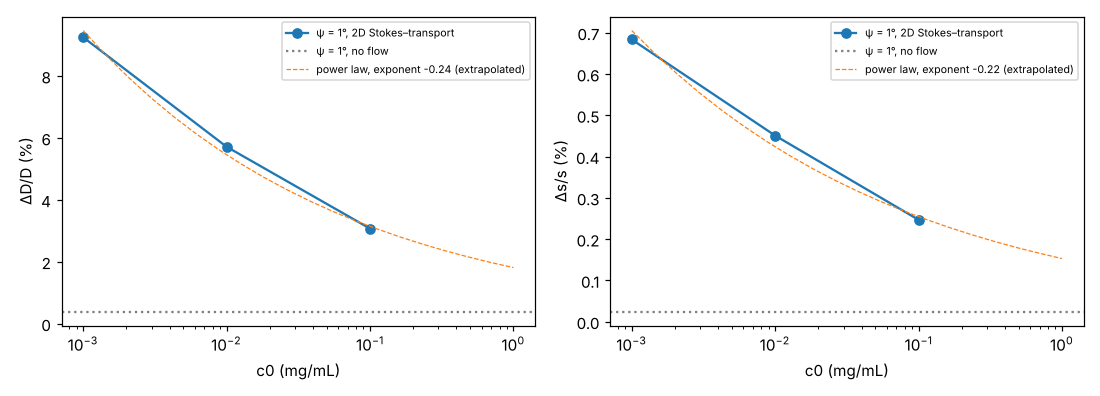
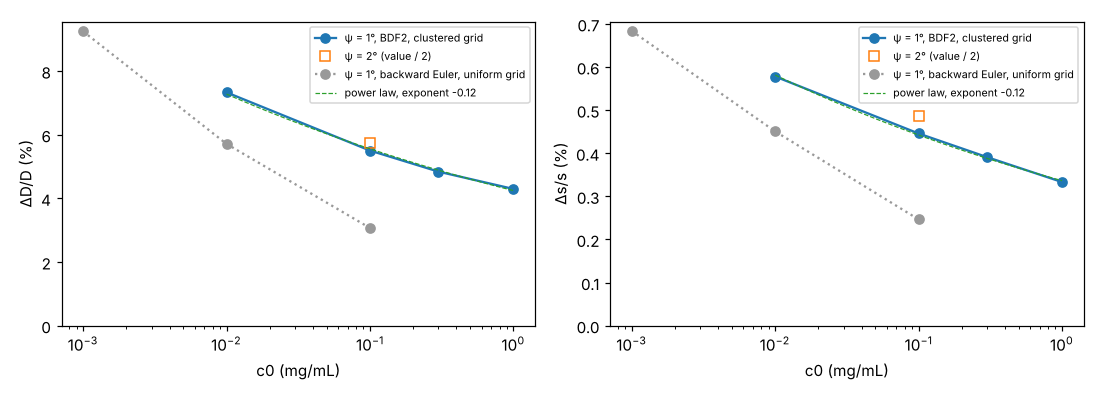
2D misalignment: converged c0 series up to 1 mg/mL
BDF2 + wall-clustered grid: dD/D = 7.3/5.5/4.8/4.3 % at c0 = 0.01/0.1/0.3/1
mg/mL (psi = 1 deg), ds/s = dD/D / 12.5, linear in psi, c0^-0.12 scaling.
Old first-order solver underestimated the effect by about 2x at 1 mg/mL.
README sections 5/6 and summary figure updated.

Claude-Session: https://claude.ai/code/session_013K97U3U5VJQ5UUjhK9BA67

diff --git a/scripts/misalignment/plot2d_summary.py b/scripts/misalignment/plot2d_summary.py
@@ -1,6 +1,8 @@
 #!/usr/bin/env python3
 """Summary figure of the 2D study: apparent Delta D / D and Delta s / s
-(ideal-model fit, relative to the aligned run on the same grid) versus c0."""
+(ideal-model fit, relative to the aligned run on the same grid) versus c0.
+Main series: BDF2 solver, wall-clustered 120x40 grid (misalign2d_bdf2.py);
+grey: first-order backward-Euler solver on a uniform grid (misalign2d_implicit.py)."""
 import json
 import numpy as np
 import matplotlib
@@ -8,24 +10,33 @@ matplotlib.use("Agg")
 import matplotlib.pyplot as plt
 
 R = {r["file"]: r for r in json.load(open("results2d.json"))}
-ref = R["runs/p0_c1e-2_120.npz"]
-pts = [("runs/p1_c1e-3_120.npz", 1e-3), ("runs/p1_c1e-2_120.npz", 1e-2),
+
+
+def rel(files, ref, key):
+    return np.array([100 * (R[f][key] / R[ref][key] - 1) for f in files])
+
+
+bdf = [("runs/b_p1_c1e-2_120_y3.npz", 1e-2), ("runs/b_p1_c0.1_y3.npz", 1e-1),
+       ("runs/b_p1_c0.3_y3.npz", 0.3), ("runs/b_p1_c1.0_y3.npz", 1.0)]
+old = [("runs/p1_c1e-3_120.npz", 1e-3), ("runs/p1_c1e-2_120.npz", 1e-2),
        ("runs/p1_c1e-1_120.npz", 1e-1)]
-c = np.array([p[1] for p in pts])
-dD = np.array([100 * (R[f]["D_k0"] / ref["D_k0"] - 1) for f, _ in pts])
-ds = np.array([100 * (R[f]["s_k0"] / ref["s_k0"] - 1) for f, _ in pts])
-nf = R["runs/p1_noflow_120.npz"]
+c = np.array([p[1] for p in bdf]); co = np.array([p[1] for p in old])
+fb = [p[0] for p in bdf]; fo = [p[0] for p in old]
+p2 = "runs/b_p2_c0.1_y3.npz"
+
 fig, ax = plt.subplots(1, 2, figsize=(10, 3.6))
-for a, y, lab, y0 in [(ax[0], dD, "ΔD/D (%)", 100 * (nf["D_k0"] / ref["D_k0"] - 1)),
-                      (ax[1], ds, "Δs/s (%)", 100 * (nf["s_k0"] / ref["s_k0"] - 1))]:
-    a.semilogx(c, y, "o-", label="ψ = 1°, 2D Stokes–transport")
-    a.axhline(y0, ls=":", color="gray", label="ψ = 1°, no flow")
+for a, key, lab in [(ax[0], "D_k0", "ΔD/D (%)"), (ax[1], "s_k0", "Δs/s (%)")]:
+    y = rel(fb, "runs/b_p0_120.npz", key)
+    a.semilogx(c, y, "o-", label="ψ = 1°, BDF2, clustered grid")
+    a.semilogx([0.1], rel([p2], "runs/b_p0_120.npz", key) / 2, "s", ms=7, mfc="none",
+               label="ψ = 2° (value / 2)")
+    a.semilogx(co, rel(fo, "runs/p0_c1e-2_120.npz", key), "o:", color="0.6",
+               label="ψ = 1°, backward Euler, uniform grid")
     k = np.polyfit(np.log10(c), np.log10(y), 1)
-    cc = np.logspace(-3, 0, 20)
+    cc = np.logspace(-2, 0, 20)
     a.semilogx(cc, 10 ** np.polyval(k, np.log10(cc)), "--", lw=0.8,
-               label=f"power law, exponent {k[0]:.2f} (extrapolated)")
+               label=f"power law, exponent {k[0]:.2f}")
+    a.set_ylim(bottom=0)
     a.set_xlabel("c0 (mg/mL)"); a.set_ylabel(lab); a.legend(fontsize=7)
+    print(key, "exponent", round(k[0], 3), "values", np.round(y, 3))
 plt.tight_layout(); plt.savefig("fig2d_summary.png", dpi=110)
-print("exponents:", np.polyfit(np.log10(c), np.log10(dD), 1)[0], np.polyfit(np.log10(c), np.log10(ds), 1)[0])
-print("extrapolated to 1 mg/mL: dD=%.2f%% ds=%.3f%%" % (10**np.polyval(np.polyfit(np.log10(c), np.log10(dD), 1), 0),
-                                                       10**np.polyval(np.polyfit(np.log10(c), np.log10(ds), 1), 0)))

diff --git a/scripts/misalignment/README.md b/scripts/misalignment/README.md
@@ -128,86 +128,122 @@ The full table for δ up to 4° and κ ∈ {1, 0.1} is produced by `study.py`.
 
 ## 5. Implicit 2D Stokes–transport solver
 
-`misalign2d_implicit.py` solves the 2D model (planar, curl-free tilted
-field; see `misalign2d.py` for the equations). It omits sector divergence,
-which is the same for the aligned and the misaligned cell to O(α).
+The 2D model is planar, with a curl-free tilted field (equations in
+`misalign2d.py`). It omits sector divergence, which is identical for the
+aligned and the misaligned cell to O(α). There are two implementations:
 
-- **Time stepping.** Linearly implicit backward Euler of the coupled
-  (c, Ψ) system. Newton–Picard iterations act on the bilinear flux c·u(Ψ) and
-  on a minmod second-order correction, converging in 4–6 iterations to a
-  residual below 1e-6.
-- **Linear algebra.** One sparse solve per iteration, using PARDISO when
-  available.
-- **Analysis (`analysis2d.py`).** Profiles are averaged along lines of
-  constant radius (`--center`: the channel centre line, i.e. the absorbance
-  beam). They are fitted with the ideal planar 1D model (s, D free), and
-  alternatively with the closure (s, D, κ_a, κ_d free). Effects are quoted
-  relative to the aligned run on the same grid, which removes the solver's
-  numerical diffusion.
+- **`misalign2d_bdf2.py` (production).**
+  - Time stepping: BDF2, started with one backward-Euler step.
+  - Unknowns: c (cell centres), Ψ and ω (nodes), solved in one coupled sparse
+    system per iteration with PARDISO. The no-slip wall vorticity uses Woods'
+    condition.
+  - Lateral grid: tanh-stretched, clustered at the walls (`--ybeta`).
+  - Iteration: Newton–Picard on the bilinear flux c·u(Ψ) and on the minmod
+    second-order correction, 3–7 iterations per step to a residual below 1e-7.
+  - Mass is conserved to 1e-10.
+- **`misalign2d_implicit.py` (superseded).** First-order backward Euler on a
+  uniform grid.
+
+**Analysis (`analysis2d.py`).**
+- Profiles are averaged along lines of constant radius, weighted by cell
+  width. With `--center`, the channel centre line (the absorbance beam) is
+  used instead.
+- Profiles are fitted with the ideal planar 1D model (s, D free), and
+  alternatively with the closure (s, D, κ_a, κ_d free).
+- Effects are quoted relative to the aligned run on the same x-grid. This
+  removes the solver's numerical diffusion. The aligned run has no lateral
+  structure, so it does not depend on the y-grid.
 
 Setup: BSA (4.4 S, 6.0e-7 cm²/s), 50 krpm, r_m = 6.2 cm, L = 0.9 cm,
-W = 2.8 mm, t = 4000 s, grid 120×40, dt = 5 s.
+W = 2.8 mm, t = 4000 s. Unless stated otherwise: grid 120×40, β = 3,
+dt = 5 s.
 
-| ψ | c0 (mg/mL) | Δs/s | ΔD/D | rmsd (aligned: 1.3e-3) |
-|---|---|---|---|---|
-| 1° | 0 (no flow) | +0.02 % | +0.4 % | 1.4e-3 |
-| 1° | 0.001 | +0.68 % | +9.2 % | 8.1e-3 |
-| 1° | 0.01 | +0.45 % | +5.7 % | 6.2e-3 |
-| 1° | 0.1 | +0.25 % | +3.1 % | 4.1e-3 |
-| 2° | 0.01 | +0.91 % | +10.9 % | 1.0e-2 |
+**Convergence (BDF2, ψ = 1°, c0 = 0.01 mg/mL)**
 
-Numerical checks at ψ = 1°, c0 = 0.01:
-
-| check | Δs/s | ΔD/D |
+| run | Δs/s | ΔD/D |
 |---|---|---|
-| grid 180×60 | +0.55 % | +6.7 % |
-| dt = 10 s | +0.40 % | +8.1 % |
-| dt = 2.5 s | +0.48 % | +4.5 % |
-| dt → 0 (Richardson extrapolation, first order) | ≈ +0.51 % | ≈ +3.3 % |
-| centre-line signal instead of lateral mean | +0.45 % | +5.4 % |
+| uniform y, dt = 10 / 5 / 2.5 s | +0.50 / +0.50 / +0.50 % | +6.32 / +6.34 / +6.34 % |
+| β = 2 | +0.58 % | +7.35 % |
+| β = 3 | +0.58 % | +7.33 % |
+| β = 3, Ny = 60 | +0.58 % | +7.37 % |
+| β = 3, Nx = 180 (aligned reference on 180) | +0.60 % | +7.21 % |
 
-Figures: `fig2d_field.png` (field and profiles at 0.01 mg/mL) and
-`fig2d_summary.png` (effect versus c0).
+- **Time step.** The error is negligible (< 0.02 % in s and D for
+  dt = 2.5–10 s). The strong dt dependence of the old solver (ΔD/D = 8.1 /
+  5.7 / 4.5 % at dt = 10 / 5 / 2.5 s) came from first-order splitting of the
+  flow–transport coupling. Its Richardson estimate (≈ 3.3 %) was wrong.
+- **Lateral grid.** A uniform 40-cell grid under-resolves the wall layers and
+  underestimates ΔD/D by about 15 %. The clustered grid converges to 1 %.
+- **Radial grid.** Nx = 120 versus 180 agree to 2 %.
+- **Estimated accuracy:** about 3 % of the effect.
+- **High c0.** For c0 ≥ 0.3 mg/mL, the coupling iteration diverges at
+  dt = 5 s. Converged runs use dt = 2 s (0.3 mg/mL) and dt = 1 s (1 mg/mL).
+
+**Results (BDF2, clustered grid)**
+
+| ψ | c0 (mg/mL) | Δs/s | ΔD/D | ΔD/D ÷ Δs/s | rmsd (aligned 1.4e-3) | max\|u\| (cm/s) | lateral rms |
+|---|---|---|---|---|---|---|---|
+| 1° | 0.01 | +0.58 % | +7.3 % | 12.6 | 6.7e-3 | 2.7e-3 | 4.9e-3 |
+| 1° | 0.1 | +0.45 % | +5.5 % | 12.3 | 5.6e-3 | 5.4e-3 | 2.5e-3 |
+| 1° | 0.3 | +0.39 % | +4.8 % | 12.3 | 5.1e-3 | 7.7e-3 | 1.8e-3 |
+| 1° | 1.0 | +0.33 % | +4.3 % | 12.9 | 4.6e-3 | 1.1e-2 | 1.3e-3 |
+| 2° | 0.1 | +0.97 % | +11.5 % | 11.8 | 9.8e-3 | 7.0e-3 | 4.3e-3 |
+
+max|u| and the lateral rms are taken at t = 4000 s. The table excludes two
+runs: without flow, ψ = 1° gives +0.02 % / +0.4 %. With the old solver,
+c0 = 0.001 mg/mL gives ΔD/D = 9.2 %.
+
+Figures:
+- `fig2d_field.png`: field and profiles at 0.01 mg/mL (old solver).
+- `fig2d_summary.png`: effect versus c0, comparing the BDF2 and old series.
 
 **Findings**
 
 1. **The flow causes the artifact.** Sedimentation–diffusion alone in a
-   tilted channel leaves wall layers (5 % lateral rms) but no measurable bias.
-   The artifact comes from the buoyancy-driven flow these layers set up, which
-   reaches 10–100× the sedimentation velocity even at 0.001 mg/mL.
-2. **The signature is broadening, not an s shift.** At dt = 5 s, ΔD/D is
-   about 13× Δs/s; extrapolated to dt → 0 it is about 7×. Both are roughly
-   linear in ψ. Misfit with a single ideal species is 3–6× the
-   aligned baseline. Qualitatively this matches the experiments: broadened
-   c(s) peaks and an essentially unchanged monomer s (Channell 2018).
-   Spurious species and aggregate bias in c(s) are a plausible consequence of
-   the non-ideal boundary shape, but were not computed here.
-3. **The effect weakens as concentration rises,** falling as c0^-0.24 between
-   0.001 and 0.1 mg/mL. That is non-monotonic overall, since it is zero without
-   flow. Stronger convection homogenizes the cross-section (lateral rms 1.9e-3
-   → 1.5e-4). A naive extrapolation to 1 mg/mL gives ΔD/D ≈ 1.8 % and
-   Δs/s ≈ 0.15 % per degree at dt = 5 s. With the dt → 0 correction this
-   becomes ΔD/D ≈ 1 % per degree. This is unverified: c0 ≥ 0.1 is under-resolved on
-   these grids, and the wall-layer Péclet number grows with c0.
+   tilted channel produces wall layers but no measurable bias. The artifact
+   comes from the buoyancy-driven flow these layers set up, which reaches
+   10–100× the sedimentation velocity even at 0.001 mg/mL.
+2. **The signature is broadening, not an s shift.** ΔD/D ≈ 12.5 × Δs/s,
+   independent of c0 (0.01–1 mg/mL) and of ψ. The effect is linear in ψ:
+   ψ = 2° gives 2.1× the value at 1°. Misfit with a single ideal species is
+   3–7× the aligned baseline. Qualitatively this matches the experiments:
+   broadened c(s) peaks and an essentially unchanged monomer s (Channell 2018).
+   Spurious species and aggregate bias in c(s) are a plausible consequence,
+   but were not computed here.
+3. **The effect decreases only weakly with concentration.** Both ΔD/D and
+   Δs/s scale as c0^-0.12 over 0.01–1 mg/mL. That is half the exponent
+   estimated with the old solver (−0.24), so its extrapolation (≈ 1.8 % at
+   1 mg/mL) underestimated the effect by a factor of 2.4. Stronger convection
+   homogenizes the cross-section (lateral rms 4.9e-3 → 1.3e-3), but the flow
+   speed grows (2.7e-3 → 1.1e-2 cm/s) and keeps dispersing the boundary.
+   **Quantitative rule at 50 krpm and 0.01–1 mg/mL:**
+   ```
+   ΔD/D ≈ 4.3 % · (ψ/1°) · (c0 / 1 mg/mL)^-0.12
+   Δs/s ≈ ΔD/D / 12.5
+   ```
+   ψ ≈ δ for the pivot at the cell centre. A 1° misalignment is therefore
+   relevant for D and for the MW from s/D (about −4 %) at any practical
+   concentration. For s it is marginal (0.3–0.6 %).
 4. **The PNK closure is rejected.** The plateau is depleted by about 1 %:
    solute goes to the bottom in the enriched layer, while the depleted layer
    mixes laterally instead of rising to the boundary. The advective closure
-   (κ_a, κ_d) barely reduces the misfit (6.2 → 5.8e-3), and its fitted
-   parameters trade off against s. The 1D closure in
+   (κ_a, κ_d) barely reduces the misfit (by about 6 %), and its parameters are
+   not identifiable: κ_a varies from 0.3 to 1.6 across grids of equal
+   accuracy and trades off against s. The 1D closure in
    `US_CellMisalignment`/`US_LammAstfvm` (PNK, κ) is therefore not supported
-   as a description of the hydrodynamics. A dispersive closure is needed, e.g.
-   D_eff = D (1 + γ(ψ, c0, ω)) plus a weak plateau sink, calibrated on 2D runs.
+   as a description of the hydrodynamics. A dispersive closure fits the data
+   better, e.g. D_eff = D (1 + γ ψ c0^-0.12), with a weak velocity term
+   Δs/s ≈ γ/12.5 · ψ c0^-0.12. Its speed dependence is still open.
 
 ## 6. Open points
 
-1. **Accuracy of the 2D results.** The grid sensitivity of the effect is
-   about 15 %. The time-step error is first order: ΔD at dt = 5 s is about
-   1.7× its dt → 0 value. The numbers are semi-quantitative. Production
-   runs need a second-order time integrator (BDF2), wall-clustered grids and
-   higher c0 (0.5–1 mg/mL).
+1. **Speed, geometry and size dependence.** Run the 2D model at other rotor
+   speeds and solution column lengths to obtain γ(ω, L). The present
+   calibration holds only at 50 krpm, L = 0.9 cm and 4000 s.
 2. **Sector geometry.** Run the 2D model in true (r, φ) sector geometry, with
-   salt stratification, temperature and multiple species. Then reconstruct
-   c(s) to compare with the published aggregate bias.
+   salt stratification (which stabilizes the wall layers and may reduce the
+   effect), temperature and multiple species. Then reconstruct c(s) to compare
+   with the published aggregate bias.
 3. **Replace the C++ closure.** Replace the PNK closure in the C++ prototype
    with the calibrated dispersive closure, keeping the geometry part
    (`US_CellMisalignment`), which is exact.
